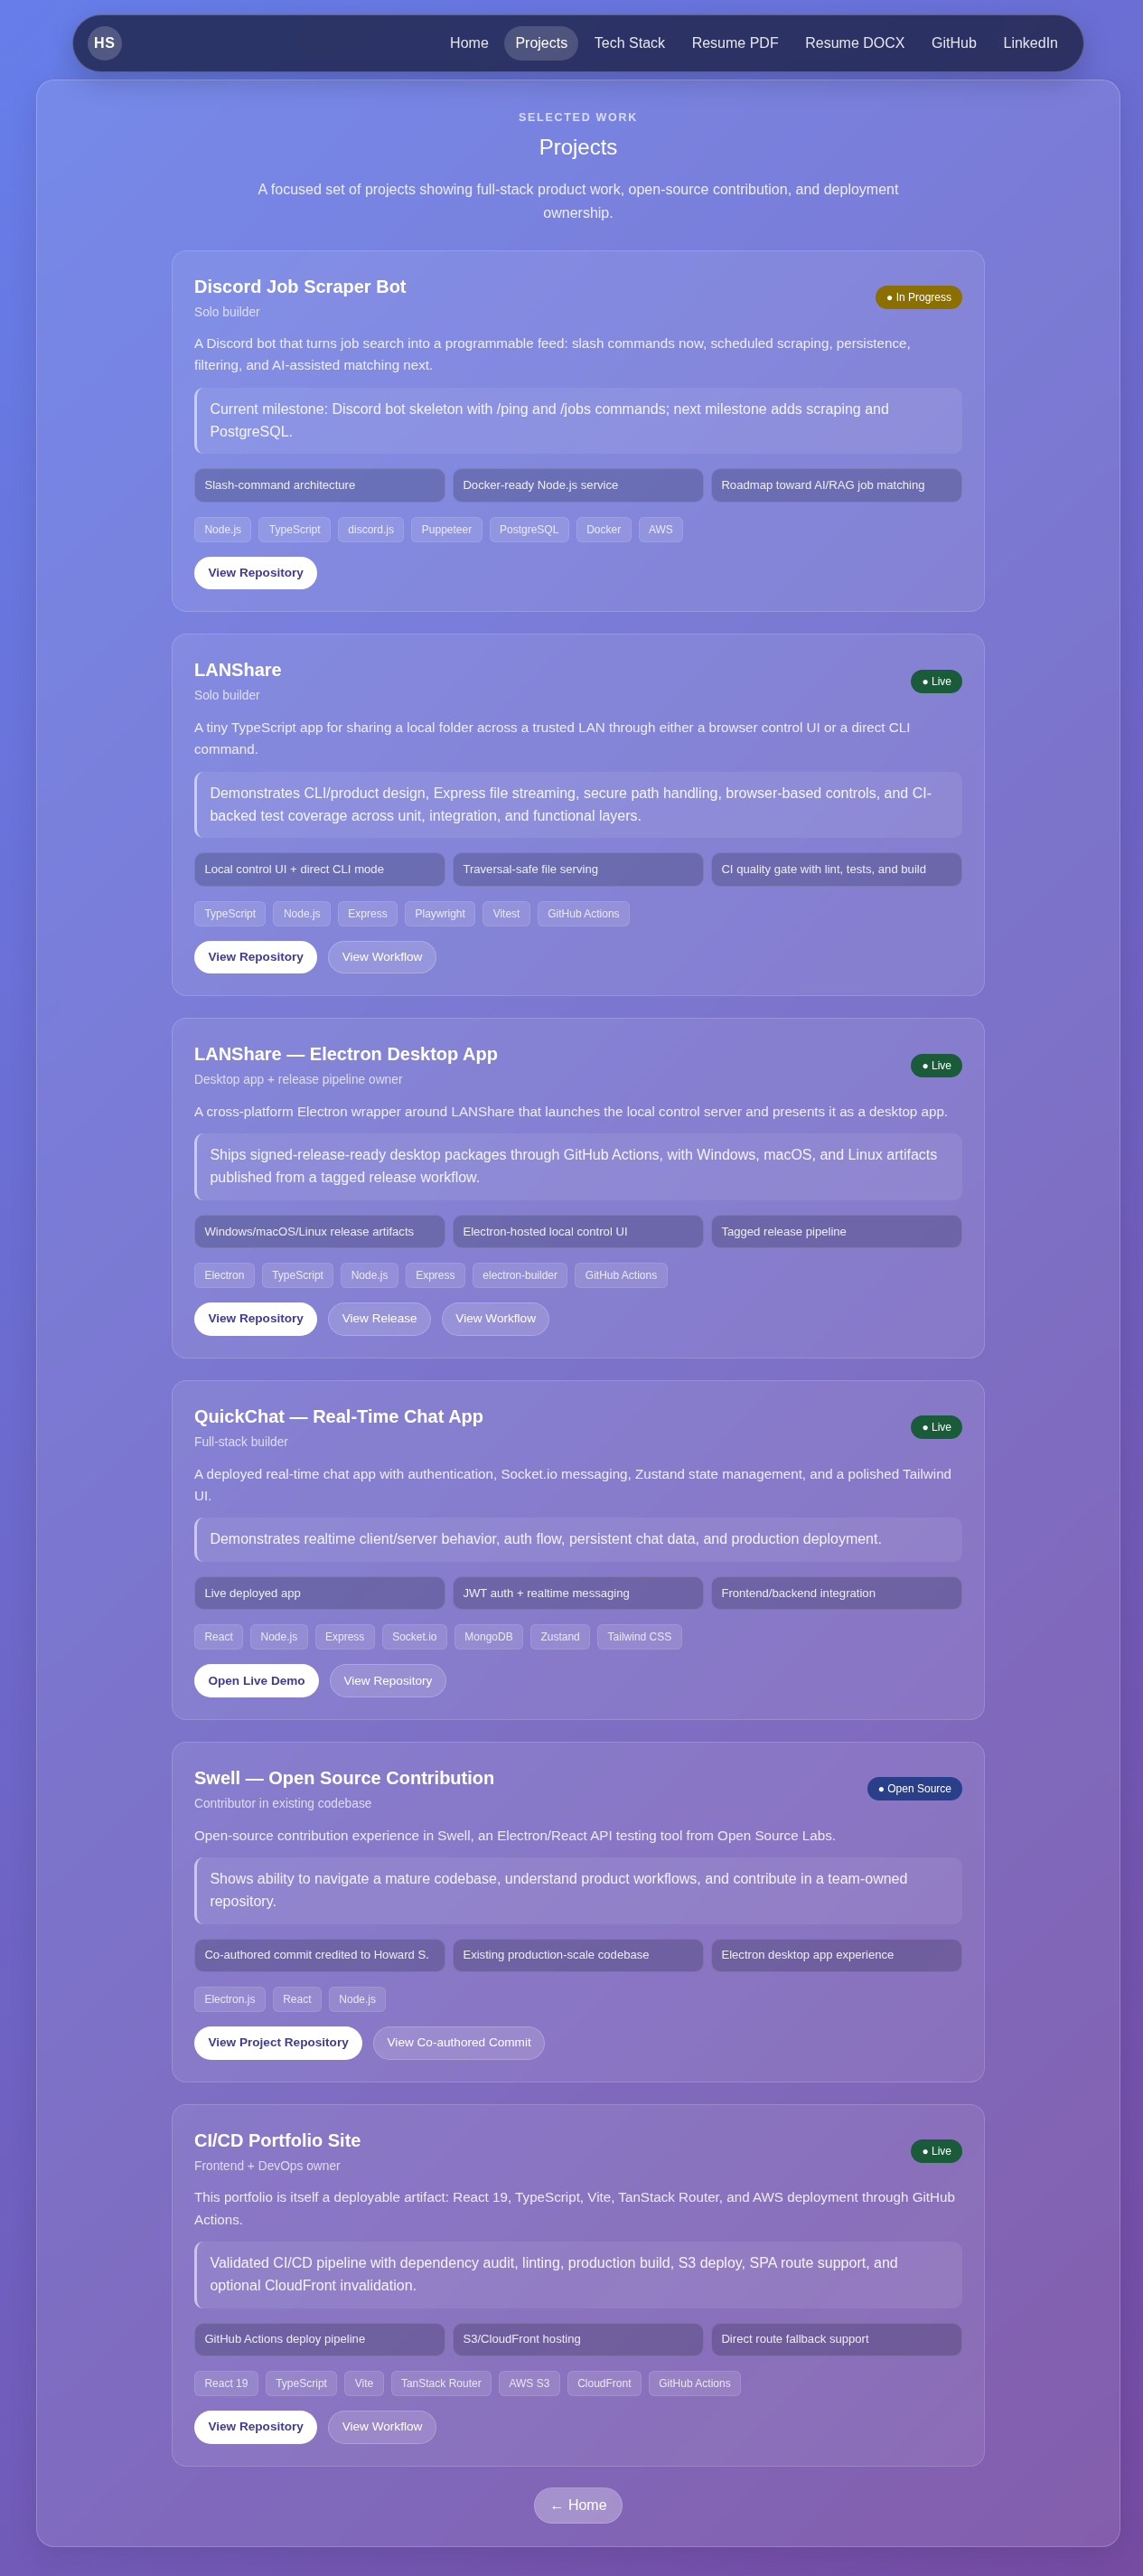
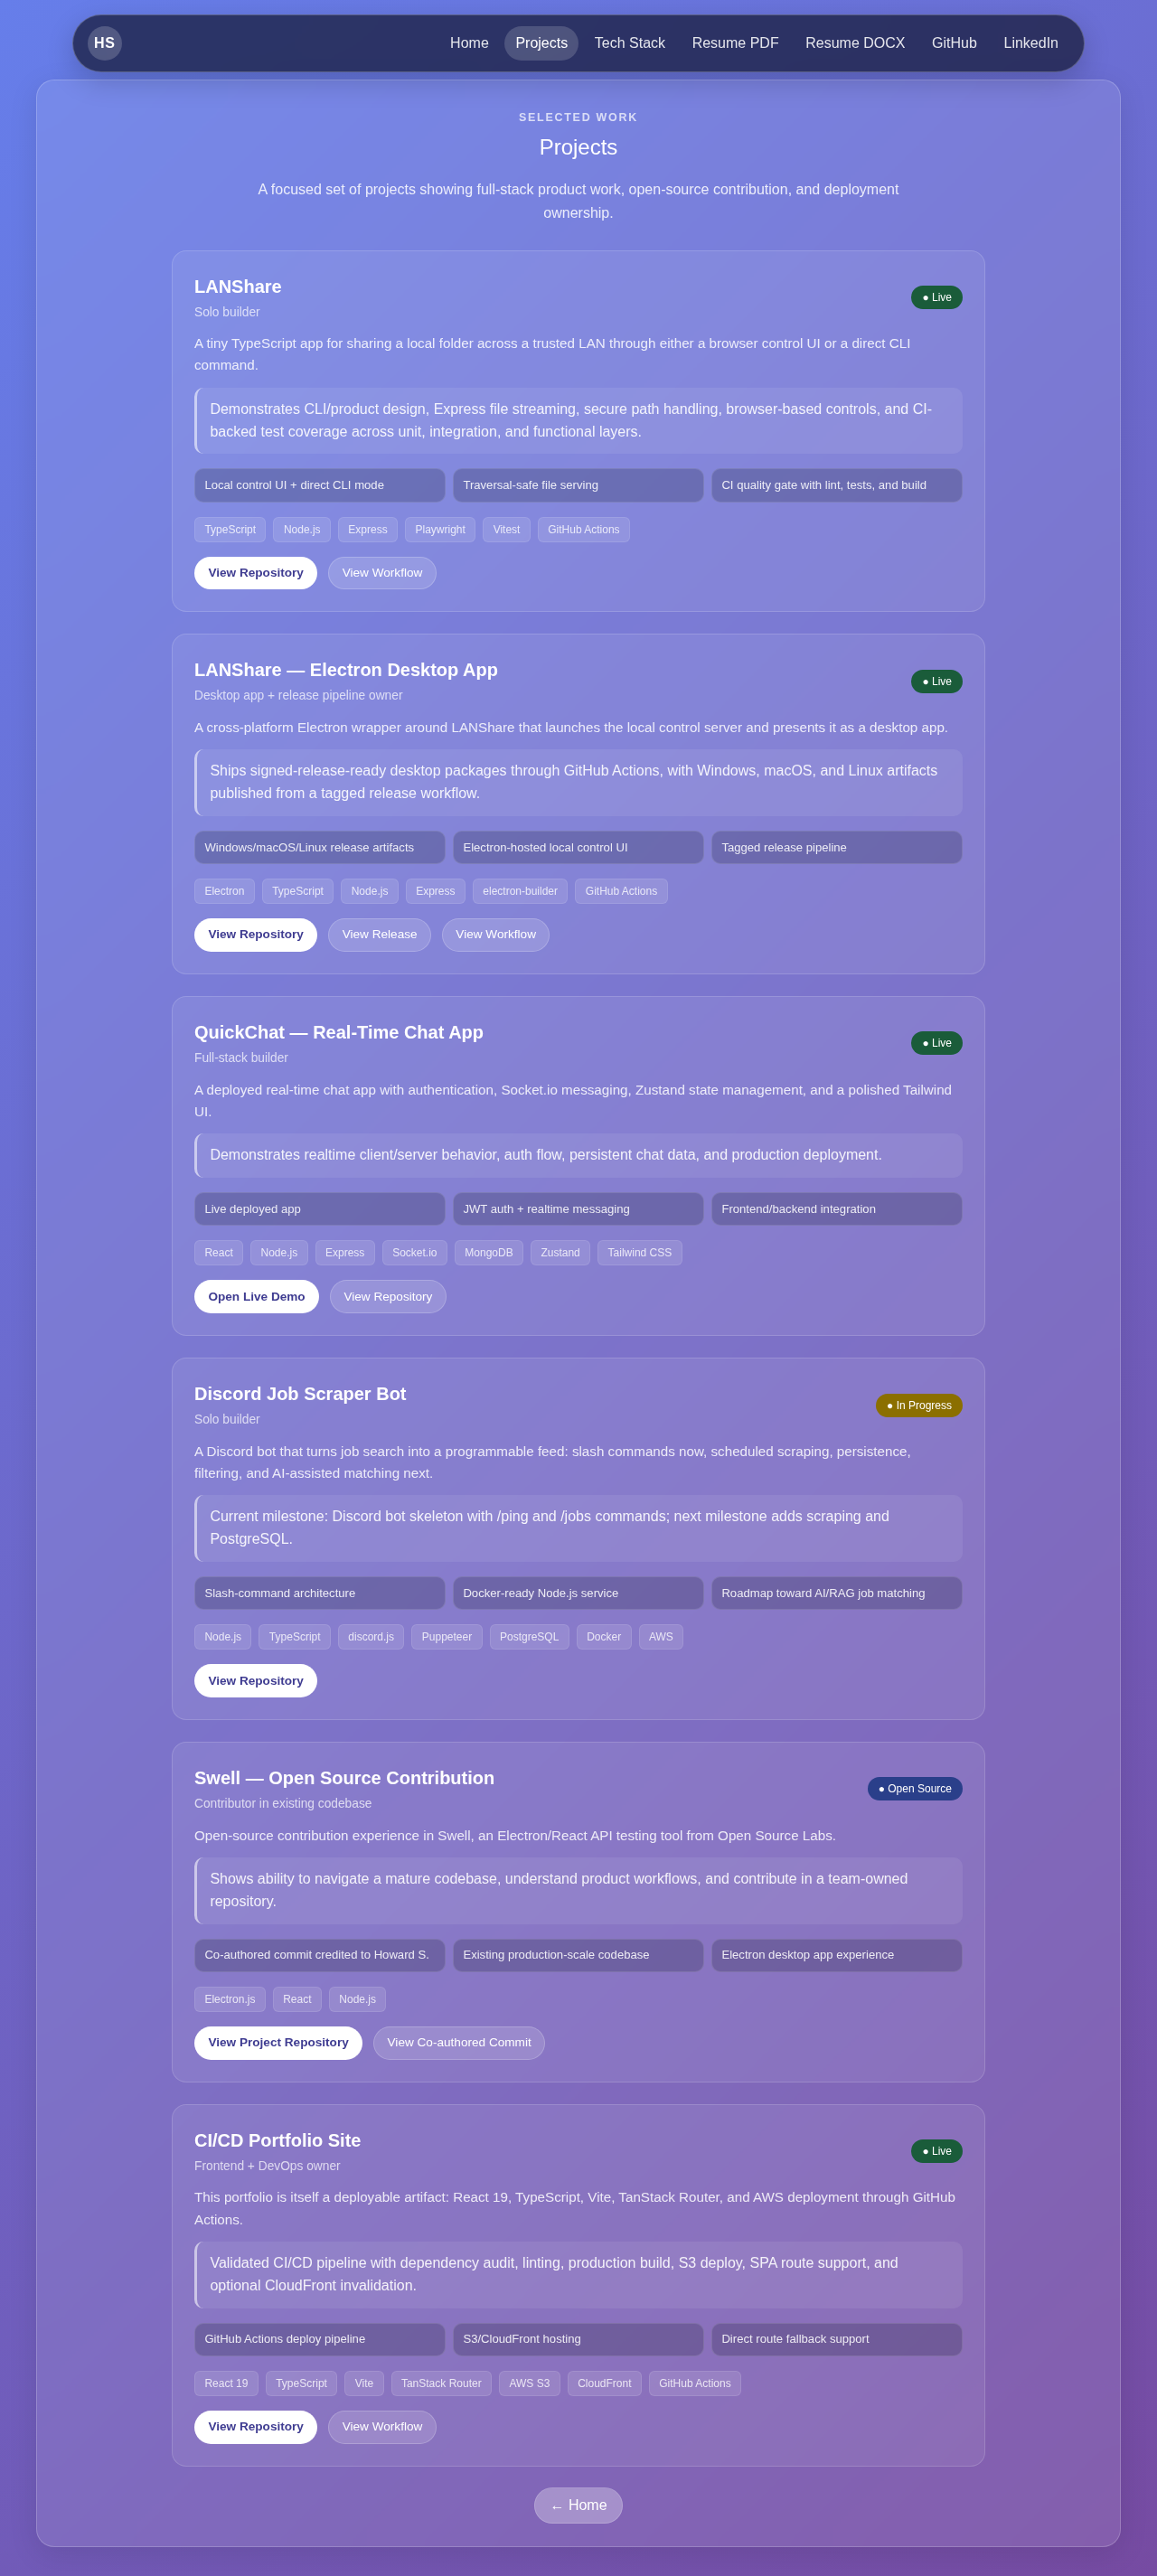
Polish README and project ordering (#65)

diff --git a/src/Components/ProjectPage.tsx b/src/Components/ProjectPage.tsx
@@ -14,19 +14,6 @@ type Project = {
 
 const projects: Project[] = [
   {
-    name: 'Discord Job Scraper Bot',
-    description:
-      'A Discord bot that turns job search into a programmable feed: slash commands now, scheduled scraping, persistence, filtering, and AI-assisted matching next.',
-    role: 'Solo builder',
-    outcome: 'Current milestone: Discord bot skeleton with /ping and /jobs commands; next milestone adds scraping and PostgreSQL.',
-    tech: ['Node.js', 'TypeScript', 'discord.js', 'Puppeteer', 'PostgreSQL', 'Docker', 'AWS'],
-    links: [
-      { label: 'View Repository', href: 'https://github.com/howardsun-dev/discord-job-scraper', kind: 'primary' },
-    ],
-    status: 'in-progress',
-    proofPoints: ['Slash-command architecture', 'Docker-ready Node.js service', 'Roadmap toward AI/RAG job matching'],
-  },
-  {
     name: 'LANShare',
     description:
       'A tiny TypeScript app for sharing a local folder across a trusted LAN through either a browser control UI or a direct CLI command.',
@@ -80,6 +67,19 @@ const projects: Project[] = [
     ],
     status: 'live',
     proofPoints: ['Live deployed app', 'JWT auth + realtime messaging', 'Frontend/backend integration'],
+  },
+  {
+    name: 'Discord Job Scraper Bot',
+    description:
+      'A Discord bot that turns job search into a programmable feed: slash commands now, scheduled scraping, persistence, filtering, and AI-assisted matching next.',
+    role: 'Solo builder',
+    outcome: 'Current milestone: Discord bot skeleton with /ping and /jobs commands; next milestone adds scraping and PostgreSQL.',
+    tech: ['Node.js', 'TypeScript', 'discord.js', 'Puppeteer', 'PostgreSQL', 'Docker', 'AWS'],
+    links: [
+      { label: 'View Repository', href: 'https://github.com/howardsun-dev/discord-job-scraper', kind: 'primary' },
+    ],
+    status: 'in-progress',
+    proofPoints: ['Slash-command architecture', 'Docker-ready Node.js service', 'Roadmap toward AI/RAG job matching'],
   },
   {
     name: 'Swell — Open Source Contribution',

diff --git a/src/Components/TechStackPage.tsx b/src/Components/TechStackPage.tsx
@@ -41,7 +41,7 @@ const slides: SlideData[] = [
       'WebSocket',
       'Socket.IO',
       'REST APIs',
-      'JWT/Auth',
+      'JWT Authentication',
       'Cloudinary',
       'Arcjet',
     ],
@@ -67,7 +67,6 @@ const slides: SlideData[] = [
       'CloudFront',
       'ELB/ALB',
       'Docker',
-      'Kubernetes',
       'GitHub Actions',
     ],
   },

diff --git a/README.md b/README.md
@@ -1,6 +1,6 @@
 # 🌐 Howard Sun — Full-Stack Engineer & Builder
 
-Welcome to my portfolio. I'm a full-stack engineer with backend and infrastructure roots, currently building full-stack, desktop, CI/CD, and AI-adjacent projects end to end.
+Welcome to my portfolio. I'm a full-stack engineer with backend and infrastructure roots, currently building full-stack, desktop, CI/CD, and developer tooling projects end to end.
 
 Live site: [howardsun.me](https://howardsun.me)
 
@@ -19,20 +19,13 @@ I build practical software from the system layer up: APIs, realtime services, lo
 
 - **Languages:** TypeScript, JavaScript (ES6), Python, C++
 - **Frontend:** React, Redux Toolkit, Zustand, TanStack Router, React Router, HTML5, CSS3/Sass, Tailwind CSS, Material UI, DaisyUI, Chart.js, webpack, Vite
-- **Backend & APIs:** Node.js, Express, WebSocket, Socket.IO, REST APIs, JWT/Auth, Cloudinary, Arcjet
+- **Backend & APIs:** Node.js, Express, WebSocket, Socket.IO, REST APIs, JWT Authentication, Cloudinary, Arcjet
 - **Desktop & Tooling:** Electron, electron-builder, CLI tools, Git, Figma
 - **Databases:** PostgreSQL, MongoDB, Amazon Aurora
-- **Infrastructure & Cloud:** AWS EC2, AWS S3, AWS Elastic Beanstalk, AWS VPC, CloudFront, ELB/ALB, Docker, Kubernetes, GitHub Actions
+- **Infrastructure & Cloud:** AWS EC2, AWS S3, AWS Elastic Beanstalk, AWS VPC, CloudFront, ELB/ALB, Docker, GitHub Actions
 - **Testing:** Jest, Playwright, Mocha, Chai, Vitest
 
 ## 🚀 Featured Projects
-
-### Discord Job Scraper Bot
-A Discord bot that turns job search into a programmable feed: slash commands now, scheduled scraping, persistence, filtering, and AI-assisted matching next.
-- **Role:** Solo builder
-- **Tech:** Node.js, TypeScript, discord.js, Puppeteer, PostgreSQL, Docker, AWS
-- **Status:** In Progress — slash-command architecture is in place; scraping, persistence, and filtering are next
-- **GitHub:** [howardsun-dev/discord-job-scraper](https://github.com/howardsun-dev/discord-job-scraper)
 
 ### LANShare
 A tiny TypeScript app for sharing a local folder across a trusted LAN through either a browser control UI or a direct CLI command.
@@ -57,6 +50,13 @@ A deployed full-stack realtime chat app with authentication, Socket.IO messaging
 - **Tech:** React, Node.js, Express, Socket.IO, MongoDB, Zustand, Tailwind CSS
 - **Live Demo:** [quickchat-v72jh.sevalla.app](https://quickchat-v72jh.sevalla.app/login)
 - **GitHub:** [howardsun-dev/quickchat](https://github.com/howardsun-dev/quickchat)
+
+### Discord Job Scraper Bot
+A Discord bot that turns job search into a programmable feed: slash commands now, scheduled scraping, persistence, filtering, and AI-assisted matching next.
+- **Role:** Solo builder
+- **Tech:** Node.js, TypeScript, discord.js, Puppeteer, PostgreSQL, Docker, AWS
+- **Status:** In Progress — slash-command architecture is in place; scraping, persistence, and filtering are next
+- **GitHub:** [howardsun-dev/discord-job-scraper](https://github.com/howardsun-dev/discord-job-scraper)
 
 ### Swell — Open Source Contribution
 Open-source contribution experience in Swell, an Electron/React API testing tool from Open Source Labs.
@@ -122,6 +122,20 @@ The deploy workflow validates the app before shipping:
 5. Deploy `dist/` to S3 on pushes to `main`
 6. Upload SPA route fallbacks for direct `/project` and `/techstack` navigation
 7. Optionally invalidate CloudFront if `CLOUDFRONT_DISTRIBUTION_ID` is configured as a repository variable
+
+## 🧑💻 Local Development
+
+```bash
+npm ci
+npm run dev
+npm run lint
+npm run build
+npm run preview
+```
+
+- `npm run dev` starts the Vite dev server for local iteration.
+- `npm run build` runs the same TypeScript + Vite production build used by CI.
+- `npm run preview` serves the built `dist/` output locally for a production-like smoke test.
 
 ## 📬 Connect
 